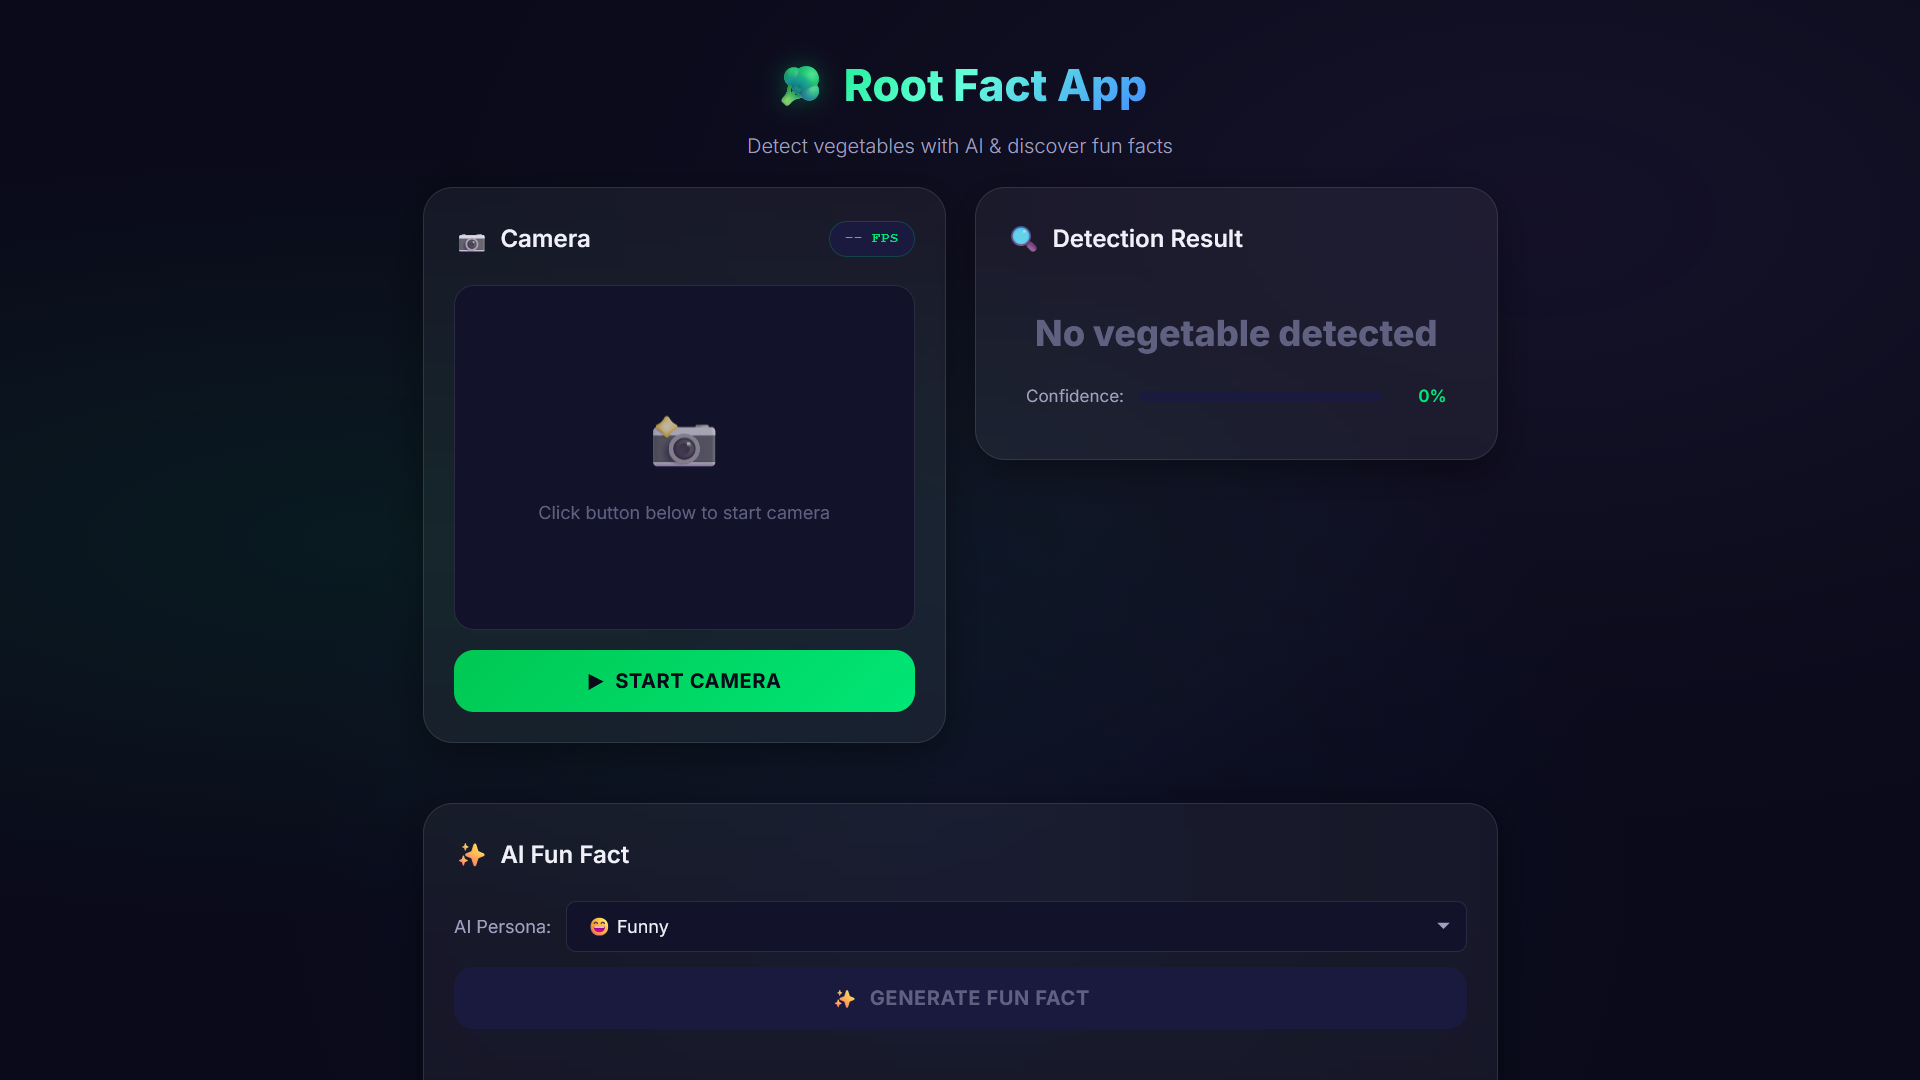
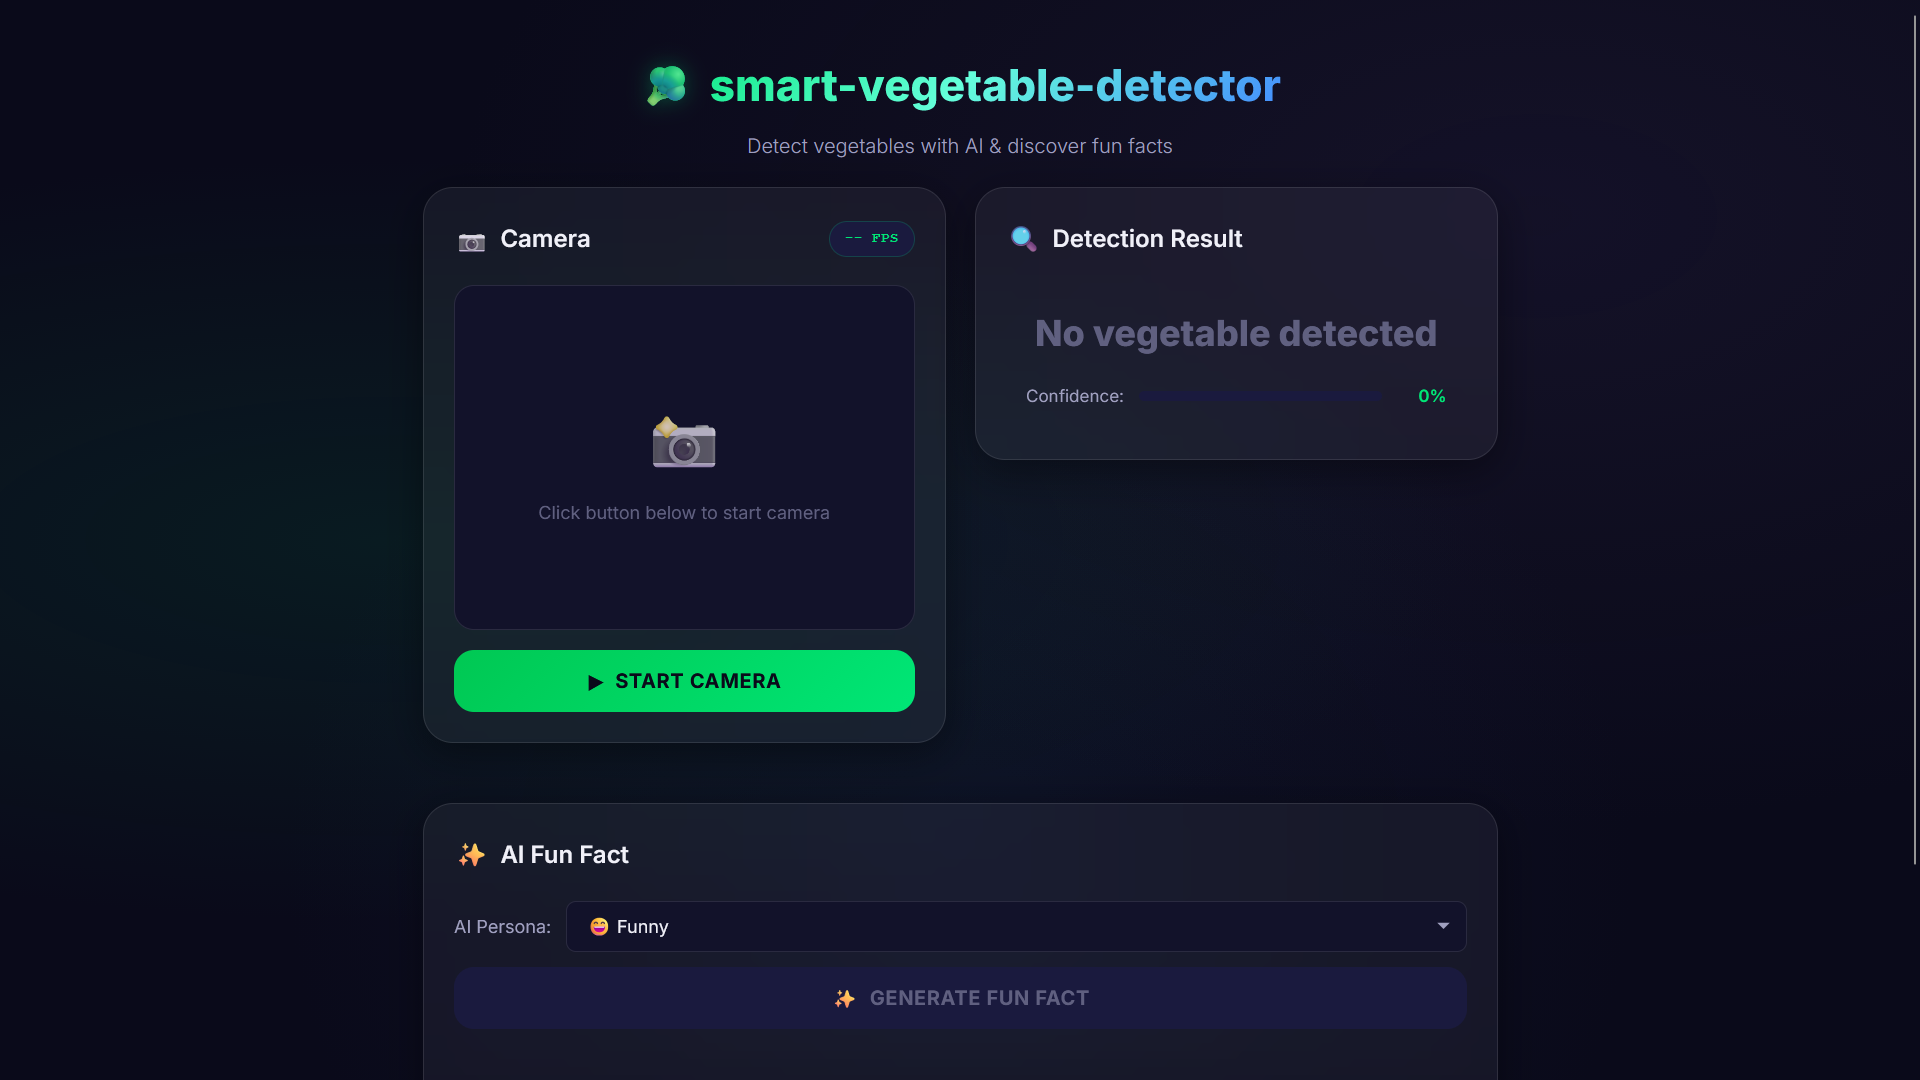
update profile

Changed region(s): [[0.3125, 0.0611, 0.6875, 0.1222]]

diff --git a/src/data/projects.js b/src/data/projects.js
@@ -45,12 +45,12 @@ export const predefinedProjects = [
       "Real-time tamper-proof shipment validation & tamper detection",
       "Decentralized identity & compliance verification for MSMEs"
     ],
-    Link: "#",
+    Link: "https://trustchain-umkm.vercel.app/",
     Github: "https://github.com/suryapamungkas",
   },
   {
     id: "smart-vegetable-detector",
-    Title: "RootFact",
+    Title: "smart-vegetable-detector",
     Description:
       "A client-side AI Progressive Web App featuring real-time vegetable classification with TensorFlow.js and on-device nutritional fun fact generation using Transformers.js (LaMini-Flan-T5). Fully offline-capable (PWA) with WebGPU acceleration.",
     Img: "/smart-vegetable-detector.png",

diff --git a/src/Pages/About.jsx b/src/Pages/About.jsx
@@ -50,7 +50,7 @@ const ProfileImage = memo(() => (
           <div className="absolute inset-0 bg-gradient-to-t from-zinc-500/20 via-transparent to-zinc-500/20 z-10 opacity-0 group-hover:opacity-100 transition-opacity duration-700 hidden sm:block" aria-hidden="true" />
           
           <img
-            src="/PP-Crop.png"
+            src="/formal-crop.jpg"
             alt="Portrait of Surya Pamungkas"
             className="w-full h-full object-cover transition-all duration-700 group-hover:scale-110 group-hover:rotate-2"
             loading="lazy"

diff --git a/src/Pages/Home.jsx b/src/Pages/Home.jsx
@@ -215,7 +215,7 @@ const Home = () => {
                     isHovering ? "scale-105" : "scale-100"
                   }`}>
                     <img
-                      src="/PP-Crop.png"
+                      src="/formal-crop.jpg"
                       alt="Portrait of Surya Pamungkas"
                       fetchPriority="high"
                       width="480"

diff --git a/README.md b/README.md
@@ -36,7 +36,7 @@ A modern, highly polished, and responsive personal portfolio crafted with **Reac
 - **Featured Projects:**
   - **NusaDecarb:** Enterprise Green-Tech & ESG Advisory Platform for industrial decarbonization towards Indonesia's Net Zero Emission 2060, built with React 19, TypeScript, and Tailwind CSS.
   - **LLM Evaluation Dashboard:** Modern LLM evaluation and prompt engineering dashboard featuring parallel benchmarking, LLM-as-a-Judge grading, Ground Truth verification, and Prompt A/B testing with FastAPI, Streamlit, and Docker.
-  - **RootFact (Smart Vegetable Detector):** Client-side AI Progressive Web App (PWA) featuring real-time vegetable classification with TensorFlow.js and on-device nutritional fun fact generation using Transformers.js (LaMini-Flan-T5).
+  - **smart-vegetable-detector:** Client-side AI Progressive Web App (PWA) featuring real-time vegetable classification with TensorFlow.js and on-device nutritional fun fact generation using Transformers.js (LaMini-Flan-T5).
   - **TrustChain UMKM:** Supply chain verification infrastructure for export-import MSMEs leveraging Blockchain and AI Analytics.
 - **Interactive Feedback System:** Real-time visitor comments & feedback powered by Supabase with administrative moderation (pin/unpin).
 - **Smooth Interactive Experience:** Optimized animations orchestrated via **Framer Motion** and **AOS (Animate On Scroll)**.
